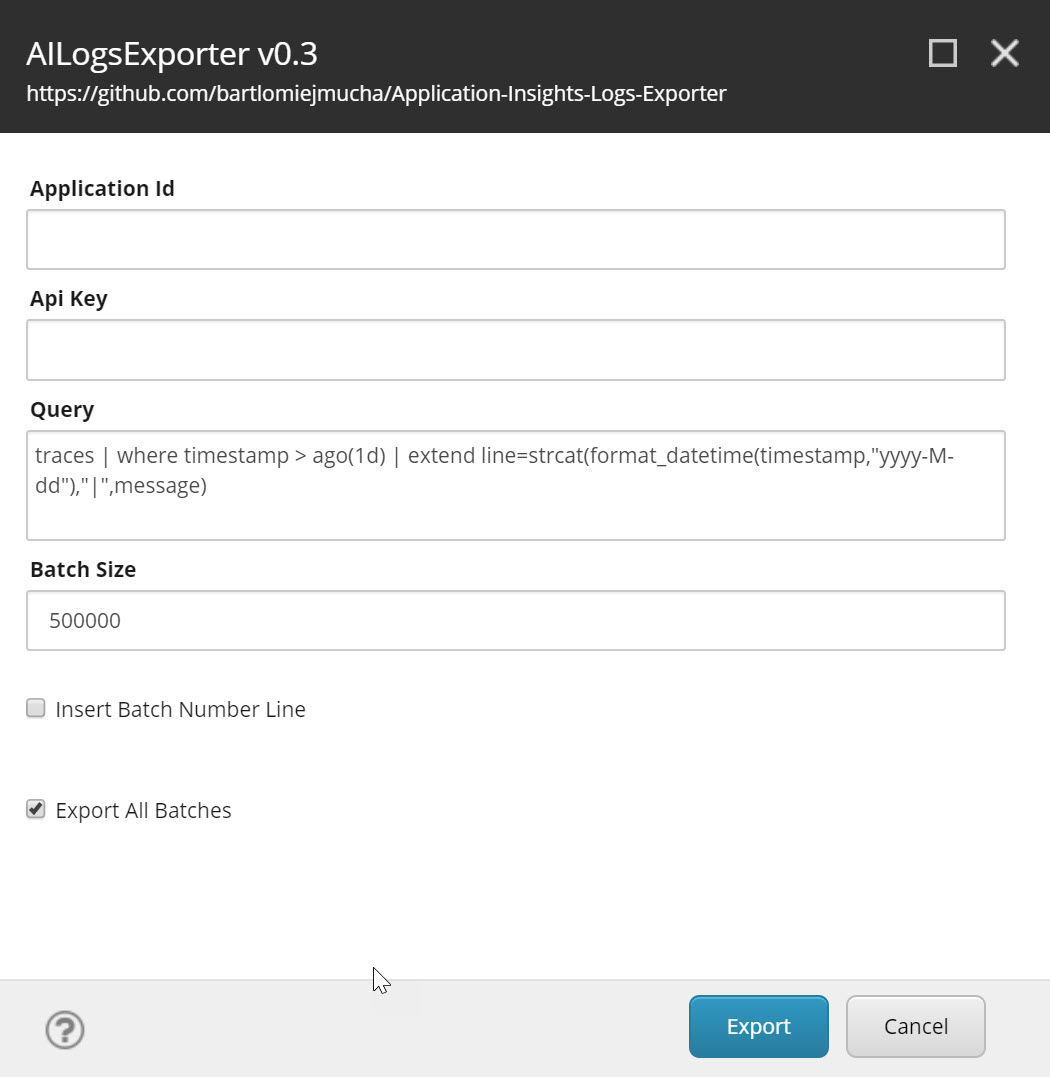
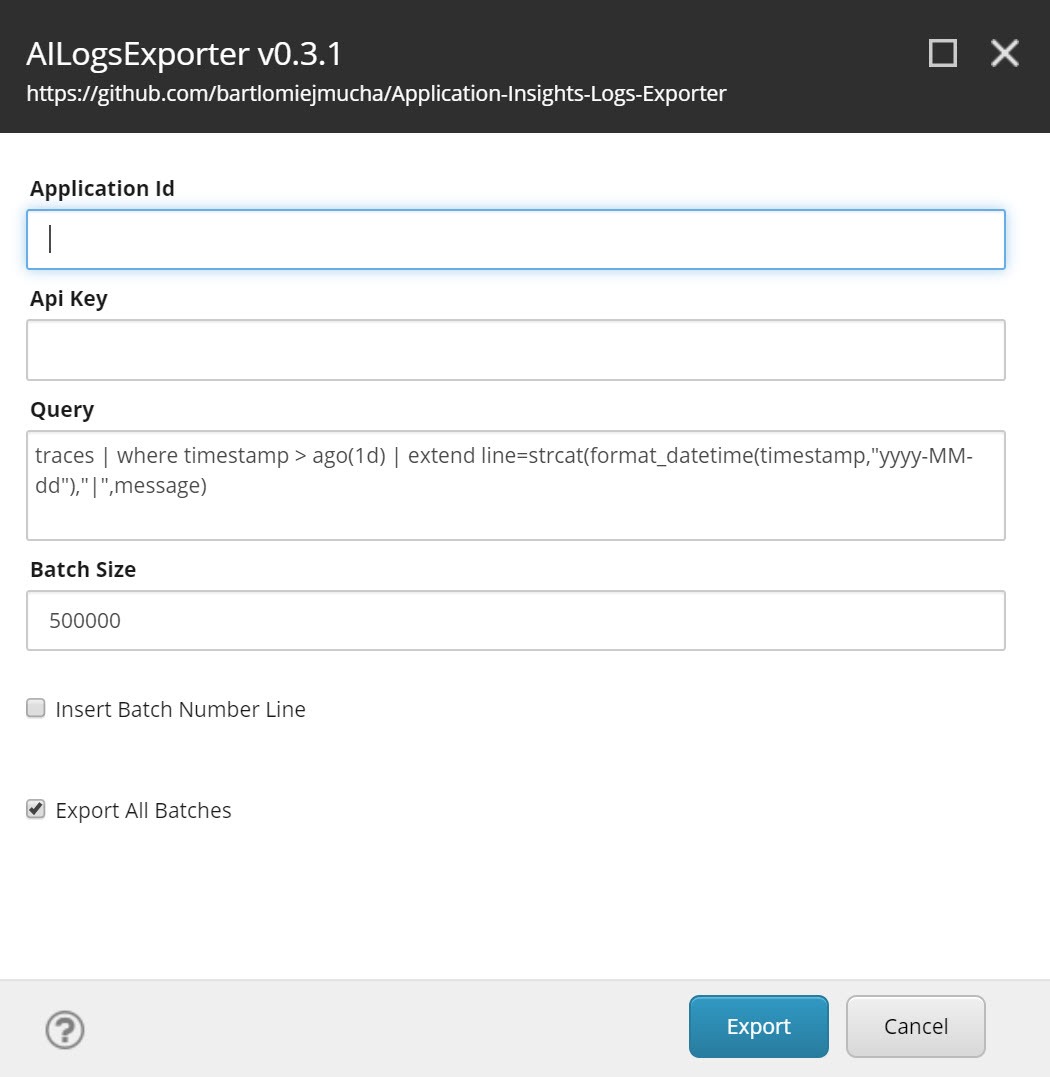
v0.3.1
v0.3.1

Changed region(s): [[0.0, 0.1838, 0.9752, 0.2451], [0.0305, 0.2451, 0.9448, 0.2758], [0.3048, 0.0306, 0.3352, 0.0613]]

diff --git a/standalone/MainForm.Designer.cs b/standalone/MainForm.Designer.cs
@@ -145,7 +145,7 @@
             this.queryTextBox.Size = new System.Drawing.Size(1075, 151);
             this.queryTextBox.TabIndex = 10;
             this.queryTextBox.Text = "traces \r\n| where timestamp > ago(1d)\r\n| extend line = strcat(format_datetime(time" +
-    "stamp, \'yyyy-M-dd\'),\"|\",message)";
+    "stamp, \"yyyy-M-dd\"),\"|\",message)";
             // 
             // queryProjectLabel
             // 
@@ -254,7 +254,7 @@
             this.Controls.Add(this.applicationIdLabel);
             this.Controls.Add(this.applicationIdTextBox);
             this.Name = "MainForm";
-            this.Text = "AILogsExporter v0.3";
+            this.Text = "AILogsExporter v0.3.1";
             ((System.ComponentModel.ISupportInitialize)(this.queryTopNumericBox)).EndInit();
             this.ResumeLayout(false);
             this.PerformLayout();

diff --git a/standalone/MainForm.cs b/standalone/MainForm.cs
@@ -52,7 +52,7 @@ namespace AILogsExporter
 
                         SetStatusLine($"Requesting a log batch #{batchNumber}");
 
-                        response = GetAsyncWithRetry(client, $"http://api.applicationinsights.io/v1/apps/{applicationId}/query?query={query}", 3);
+                        response = GetAsyncWithRetry(client, $"https://api.applicationinsights.io/v1/apps/{applicationId}/query?query={query}", 3);
                         if (response.IsSuccessStatusCode)
                         {
                             var responseContent = await response.Content.ReadAsAsync<JObject>();
